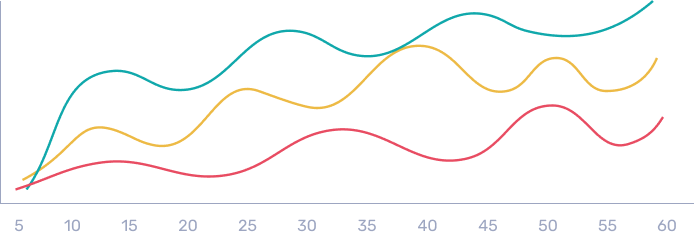
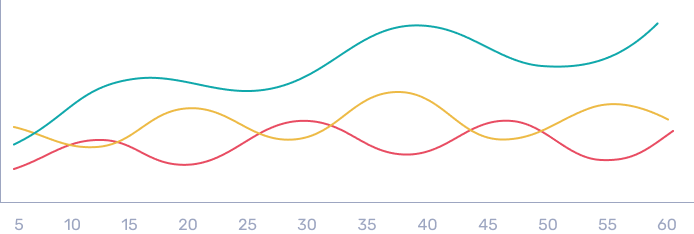
alteração no gráfico

diff --git a/dashboard/index.html b/dashboard/index.html
@@ -18,8 +18,8 @@
         <div>
             <p>
                 <span class="legenda legenda-verde"></span>Requests ok 
-                <span class="legenda legenda-amarela"></span>Requests com erro
-                <span class="legenda legenda-vermelha"></span>Requests lentos
+                <span class="legenda legenda-amarela"></span>Requests lentos
+                <span class="legenda legenda-vermelha"></span>Requests com erro
             </p>
             <p>
                 <img src="img/grafico.png" alt="Gráfico" class="grafico">
